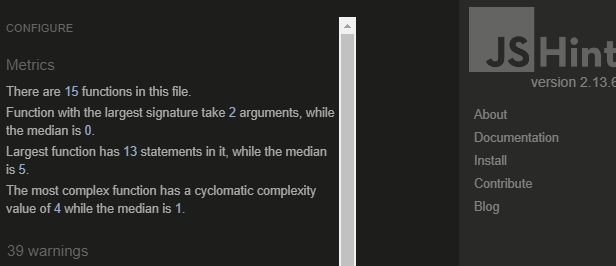
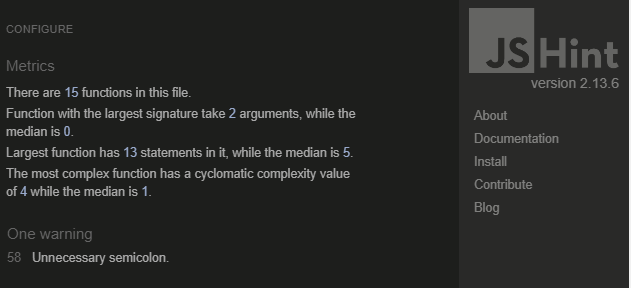
changed js testing image and edited line 216 in readme file

diff --git a/README.md b/README.md
@@ -213,7 +213,7 @@ After fixing the error, the website was checked again and no errors were detecte
 
 ### JAVASCRIPT
 
-Testing was carried out by [JSHint](https://jshint.com/) and 39 warnings were detected. They however do not affect the functioning of the quiz game.
+Testing was carried out by [JSHint](https://jshint.com/) and one warning on line 58 was detected and rectified. 
 
 ![Javascript testing](assets/images/readme/js%20testing.png)
 
